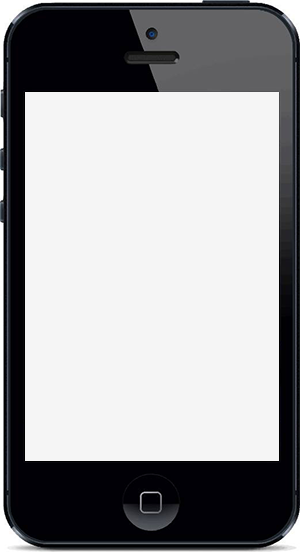
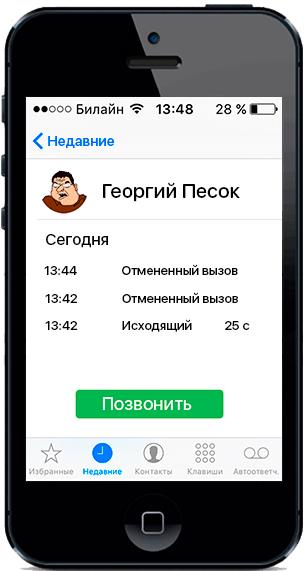
change george

diff --git a/html/mod_randomvideo/call-george/style.css b/html/mod_randomvideo/call-george/style.css
@@ -10,71 +10,62 @@
 .call-george-module .phone {
 	display: inline-block;
 	position: relative;
-	width: 300px;
-	height: 552px;
-	background: url('/templates/nerudas/html/mod_randomvideo/call-george/phone.png');
+	width: 304px;
+	height: 571px;
 	background-size: 100%;
 }
-
 .call-george-module .phone > .display {
 	position: absolute;
-	top: 92px;
-	left: 24px;
+	top: 97px;
+	left: 26px;
+	z-index: 1;
 }
 
 .call-george-module .phone > .display > .inner {
-	display: none;
 	position: relative;
-	width: 255px;
-	height: 369px;
+	width: 256px;
+	height: 384px;
 }
-
-.call-george-module .page_ready {
-	background: url('/templates/nerudas/html/mod_randomvideo/call-george/page_ready.png');
-	background-size: 100%;
-}
-
-.call-george-module .page_ready .get_video {
-	display: block;
-	width: 155px;
-	height: 31px;
-	cursor: pointer;
+.call-george-module .phone.not-mac > .display > .inner  img {
 	position: absolute;
-	bottom: 53px;
-	left: 52px;
+	top: 0;
+	left: 0;
+	right: 0;
+	bottom: 0;
+	z-index: 1;
 }
 
-.call-george-module .before_play {
-	background: url('/templates/nerudas/html/mod_randomvideo/call-george/before_play.png');
-	background-size: 100%;
-}
-
-.call-george-module .before_play .stop_load {
-	display: block;
-	width: 50px;
-	height: 50px;
-	cursor: pointer;
-	position: absolute;
-	bottom: 39px;
-	left: 101px;
-	border-radius: 50%;
-}
-
-.call-george-module .on_play {
-	background: url('/templates/nerudas/html/mod_randomvideo/call-george/on_play.png');
-	background-size: 100%;
-}
-
-.call-george-module .on_play video {
+.call-george-module .phone.not-mac > .display > .inner  video {
 	display: block;
 	width: 100%;
 	height: 100%;
 	margin: 0;
 	padding: 0;
 	object-fit: fill;
+	position: absolute;
+	top: 0;
+	left: 0;
+	right: 0;
+	bottom: 0;
+	z-index: 1;
+}
+.call-george-module .phone.not-mac > .display > .inner {
+	display: none;
 }
 
-.call-george-module .on_play .stop_video {
+.call-george-module .get_video {
+	display: block;
+	width: 155px;
+	height: 31px;
+	cursor: pointer;
+	position: absolute;
+	bottom: 58px;
+	left: 46px;
+	z-index: 9;
+}
+
+.call-george-module .stop_load,
+.call-george-module .stop_video {
 	display: block;
 	width: 50px;
 	height: 50px;
@@ -83,19 +74,5 @@
 	bottom: 39px;
 	left: 101px;
 	border-radius: 50%;
-}
-
-.call-george-module .after_play {
-	background: url('/templates/nerudas/html/mod_randomvideo/call-george/after_play.png');
-	background-size: 100%;
-}
-
-.call-george-module .after_play .get_video {
-	display: block;
-	width: 155px;
-	height: 31px;
-	cursor: pointer;
-	position: absolute;
-	bottom: 53px;
-	left: 52px;
+	z-index: 9;
 }

diff --git a/html/mod_randomvideo/call-george/style.min.css b/html/mod_randomvideo/call-george/style.min.css
@@ -1,1 +1,1 @@
-.call-george-module .phone{display:inline-block;position:relative;width:300px;height:552px;background:url('/templates/nerudas/html/mod_randomvideo/call-george/phone.png');background-size:100%}.call-george-module .phone>.display{position:absolute;top:92px;left:24px}.call-george-module .phone>.display>.inner{display:none;position:relative;width:255px;height:369px}.call-george-module .page_ready{background:url('/templates/nerudas/html/mod_randomvideo/call-george/page_ready.png');background-size:100%}.call-george-module .page_ready .get_video{display:block;width:155px;height:31px;cursor:pointer;position:absolute;bottom:53px;left:52px}.call-george-module .before_play{background:url('/templates/nerudas/html/mod_randomvideo/call-george/before_play.png');background-size:100%}.call-george-module .before_play .stop_load{display:block;width:50px;height:50px;cursor:pointer;position:absolute;bottom:39px;left:101px;border-radius:50%}.call-george-module .on_play{background:url('/templates/nerudas/html/mod_randomvideo/call-george/on_play.png');background-size:100%}.call-george-module .on_play video{display:block;width:100%;height:100%;margin:0;padding:0;object-fit:fill}.call-george-module .on_play .stop_video{display:block;width:50px;height:50px;cursor:pointer;position:absolute;bottom:39px;left:101px;border-radius:50%}.call-george-module .after_play{background:url('/templates/nerudas/html/mod_randomvideo/call-george/after_play.png');background-size:100%}.call-george-module .after_play .get_video{display:block;width:155px;height:31px;cursor:pointer;position:absolute;bottom:53px;left:52px}
+.call-george-module .phone{display:inline-block;position:relative;width:304px;height:571px;background-size:100%}.call-george-module .phone>.display{position:absolute;top:97px;left:26px;z-index:1}.call-george-module .phone>.display>.inner{position:relative;width:256px;height:384px}.call-george-module .phone.not-mac>.display>.inner img{position:absolute;top:0;left:0;right:0;bottom:0;z-index:1}.call-george-module .phone.not-mac>.display>.inner video{display:block;width:100%;height:100%;margin:0;padding:0;object-fit:fill;position:absolute;top:0;left:0;right:0;bottom:0;z-index:1}.call-george-module .phone.not-mac>.display>.inner{display:none}.call-george-module .get_video{display:block;width:155px;height:31px;cursor:pointer;position:absolute;bottom:58px;left:46px;z-index:9}.call-george-module .stop_load,.call-george-module .stop_video{display:block;width:50px;height:50px;cursor:pointer;position:absolute;bottom:39px;left:101px;border-radius:50%;z-index:9}

diff --git a/html/mod_randomvideo/call-george.php b/html/mod_randomvideo/call-george.php
@@ -11,31 +11,77 @@
 defined('_JEXEC') or die;
 
 use Joomla\CMS\HTML\HTMLHelper;
+use Joomla\CMS\Environment\Browser;
+use Joomla\Utilities\ArrayHelper;
+use Joomla\CMS\Uri\Uri;
+use Joomla\CMS\Language\Text;
 
-HTMLHelper::_('jquery.framework');
-HTMLHelper::_('script', 'media/mod_randomvideo/js/ajax.min.js', array('version' => 'auto'));
+$browser = Browser::getInstance();
+$mac     = ($browser->getPlatform() == 'mac');
+
+if ($mac)
+{
+	$videos = $params->get('videos', 0);
+	$videos = ArrayHelper::fromObject($videos, false);
+	$count  = count($videos);
+	$keys   = array_keys($videos);
+
+	$key        = $keys[rand(0, ($count - 1))];
+	$video      = $videos[$key];
+	$video->src = trim($video->src, '/\/');
+
+	$video->type = JFile::getExt(JPATH_ROOT . '/' . $video->src);
+	$video->src  = Uri::root(true) . '/' . $video->src;
+}
+
+if (!$mac)
+{
+	HTMLHelper::_('jquery.framework');
+	HTMLHelper::_('script', 'media/mod_randomvideo/js/ajax.min.js', array('version' => 'auto'));
+}
 HTMLHelper::_('stylesheet', 'templates/nerudas/html/mod_randomvideo/call-george/style.min.css', array('version' => 'auto'));
 
 ?>
-<div class="call-george-module uk-flex uk-flex-middle uk-flex-center">
-	<div id="<?php echo $module->module . '_' . $module->id; ?>" class="phone"
-		 data-mod_randomvideo='<?php echo $ajax_data; ?>'>
-		<div class="display">
-			<div class="page_ready inner">
-				<a class="get_video"></a>
-			</div>
-			<div class="before_play inner">
-				<a class="stop_load"></a>
-			</div>
-			<div class="on_play inner">
-				<video src="" ></video>
-				<a class="stop_video"></a>
-			</div>
-			<div class="after_play inner">
-				<div>
+<?php if (!$mac) : ?>
+	<div class="call-george-module uk-flex uk-flex-middle uk-flex-center">
+		<div id="<?php echo $module->module . '_' . $module->id; ?>" class="phone not-mac"
+			 data-mod_randomvideo='<?php echo $ajax_data; ?>'>
+			<div class="display">
+				<div class="page_ready inner">
+					<img src="/templates/nerudas/html/mod_randomvideo/call-george/page_ready.jpg">
+					<a class="get_video"></a>
+				</div>
+				<div class="before_play inner">
+					<img src="/templates/nerudas/html/mod_randomvideo/call-george/before_play.jpg">
+					<a class="stop_load"></a>
+				</div>
+				<div class="on_play inner">
+					<video src=""></video>
+					<img src="/templates/nerudas/html/mod_randomvideo/call-george/on_play.jpg">
+					<a class="stop_video"></a>
+				</div>
+				<div class="after_play inner">
+					<img src="/templates/nerudas/html/mod_randomvideo/call-george/after_play.jpg">
 					<a class="get_video"></a>
 				</div>
 			</div>
+			<img src="/templates/nerudas/html/mod_randomvideo/call-george/phone.png">
 		</div>
 	</div>
-</div>
+<?php else: ?>
+	<div class="call-george-module uk-flex uk-flex-middle uk-flex-center">
+		<div id="<?php echo $module->module . '_' . $module->id; ?>" class="phone mac">
+			<div class="display">
+				<div class="on_play inner">
+					<video controls src="<?php echo $video->src; ?>" type="video/<?php echo $video->type; ?>"></video>
+				</div>
+			</div>
+			<img src="/templates/nerudas/html/mod_randomvideo/call-george/phone.png">
+		</div>
+	</div>
+	<div class="uk-text-center uk-margin-small-top">
+		<a onclick="location.reload();" class="uk-button uk-button-success uk-button-large">
+			<?php echo Text::_('TPL_NERUDAS_CALL_GEORGE_RECALL'); ?>
+		</a>
+	</div>
+<?php endif; ?>
